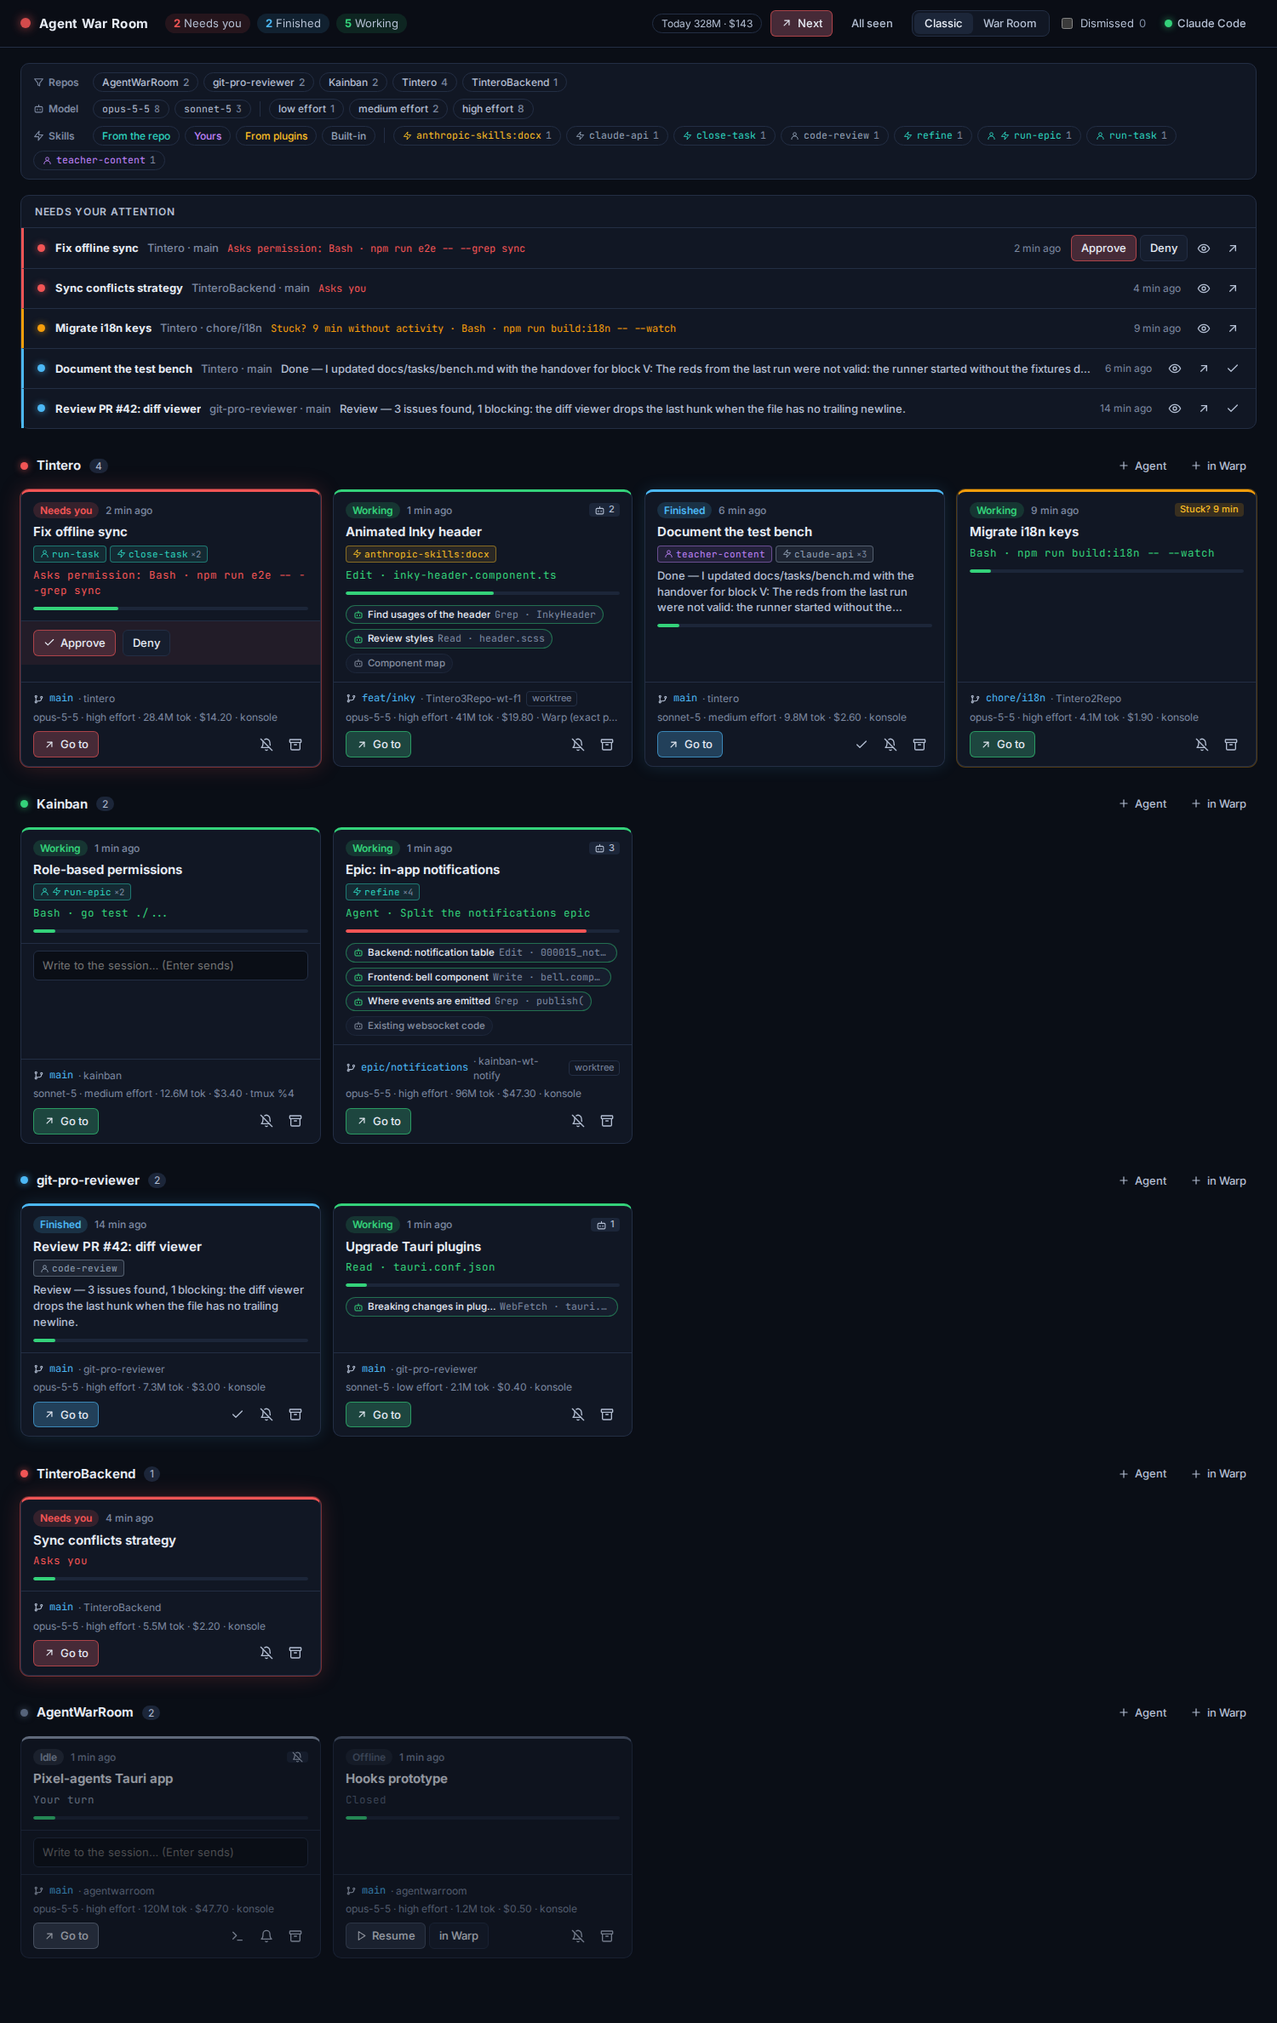
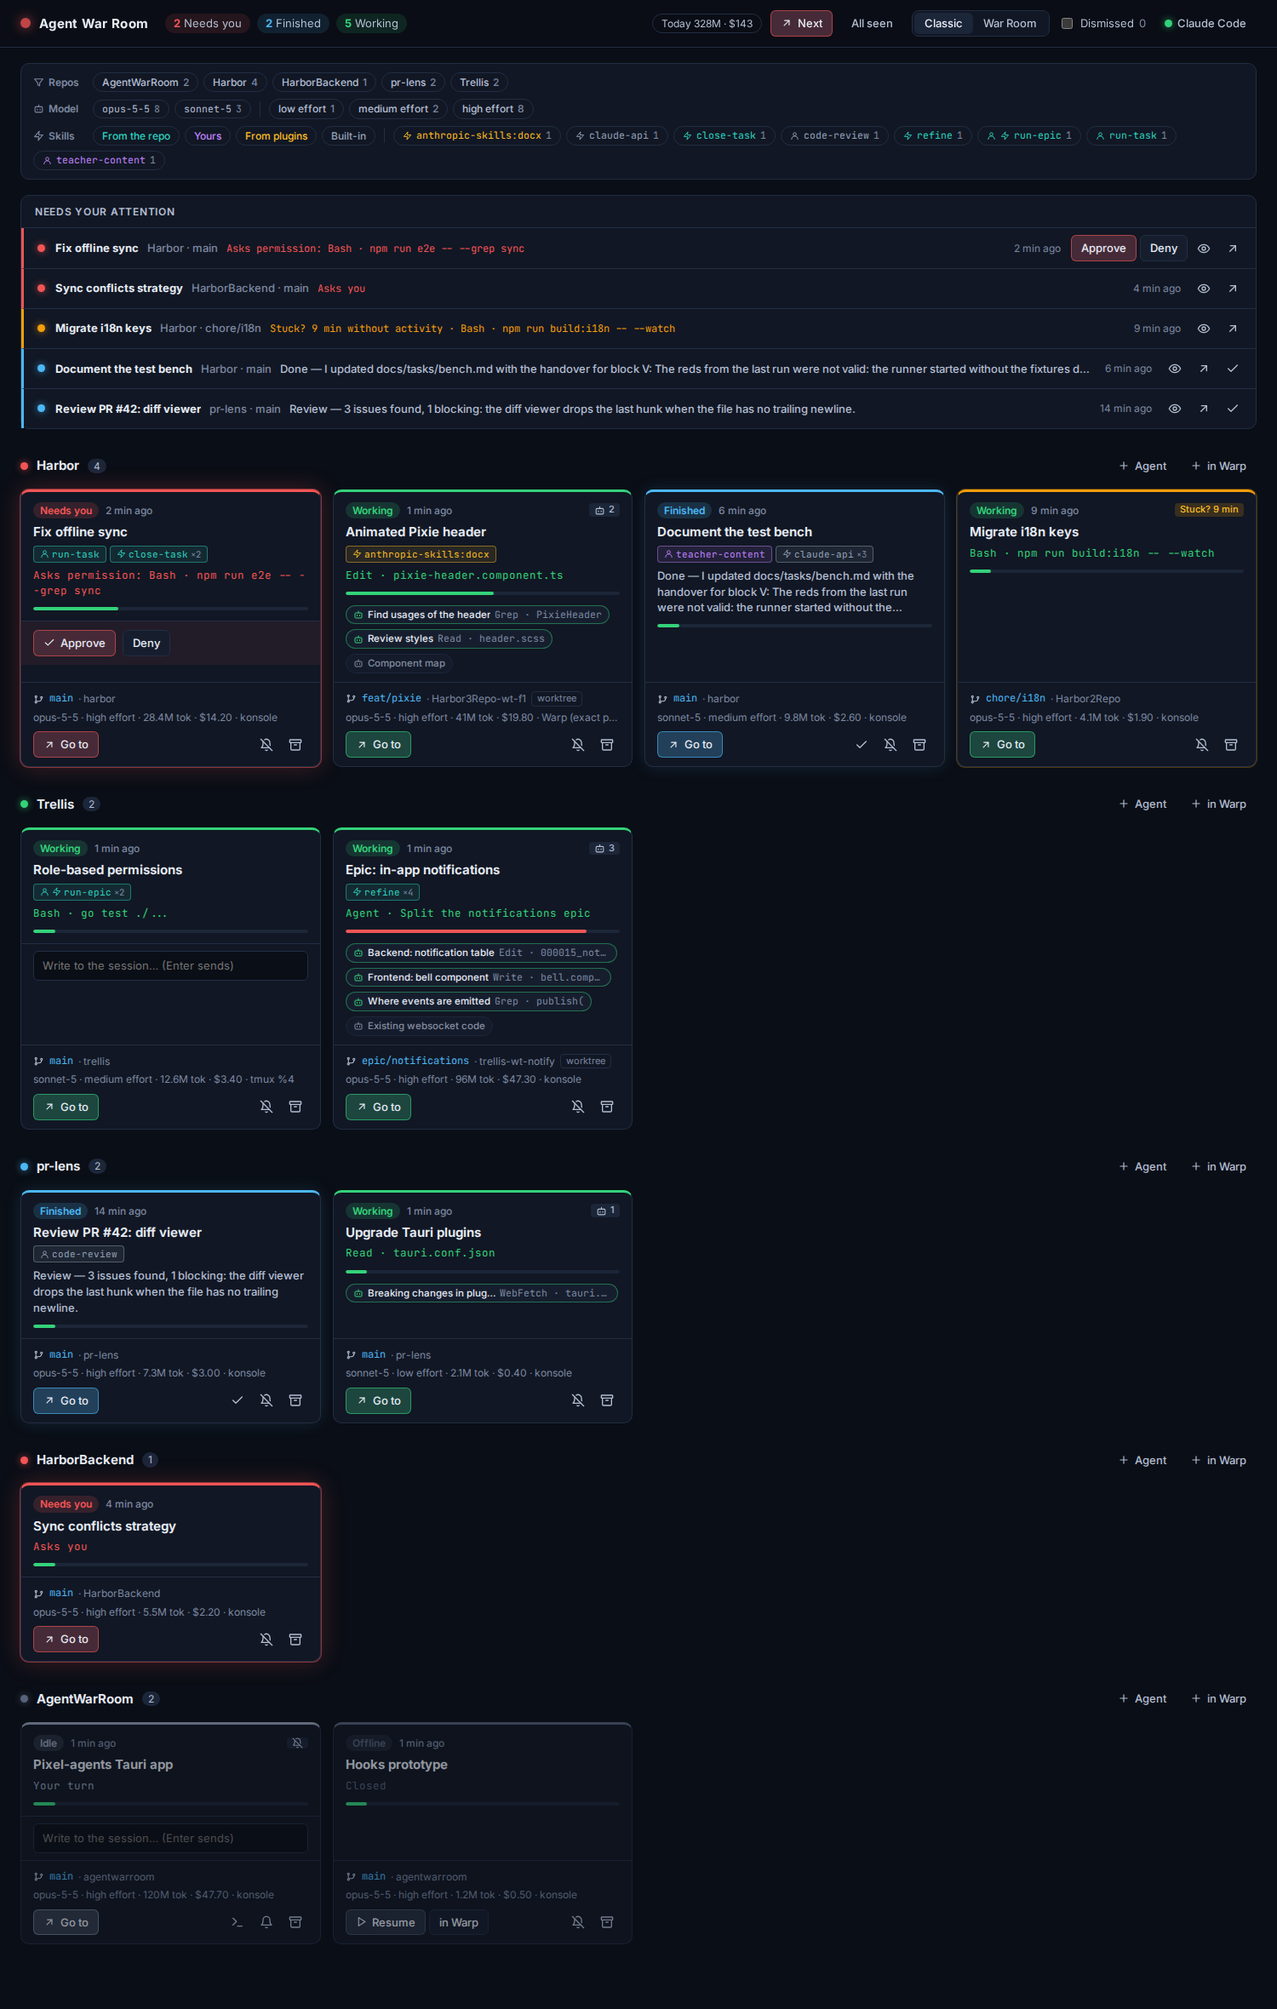
chore: MIT license and fictional names in the demo
- LICENSE (MIT); Cargo workspace and package.json declare it.
- Demo room, tests and docs use fictional repo names instead of private projects.
- Screenshots regenerated.

diff --git a/src/infrastructure/demoGateway.ts b/src/infrastructure/demoGateway.ts
@@ -133,19 +133,19 @@ function agent(id: string, kind: string, description: string, tool: string | nul
 function initialRooms(): RoomView[] {
   return [
     {
-      repo_id: "/code/tintero/.git",
-      repo_name: "Tintero",
+      repo_id: "/code/harbor/.git",
+      repo_name: "Harbor",
       attention: "needs_you",
       sessions: [
         session({
-          id: "a1b2c3d4-tintero-sync",
+          id: "a1b2c3d4-harbor-sync",
           attention: "needs_you",
           status_label: `${STATUS.asksPermission}: Bash · npm run e2e -- --grep sync`,
           title: "Fix offline sync",
           first_prompt:
             "Changes made offline are lost when the network comes back. Reproduce it with an e2e test and fix it without touching the database schema.",
           command: "claude --permission-mode default",
-          worktree_path: "/code/tintero",
+          worktree_path: "/code/harbor",
           can_approve: true,
           status_since: minutes(2),
           context_tokens: 312_000,
@@ -156,26 +156,26 @@ function initialRooms(): RoomView[] {
           ],
         }),
         session({
-          id: "b2c3d4e5-tintero-inky",
+          id: "b2c3d4e5-harbor-pixie",
           attention: "working",
           status_label: STATUS.thinking,
-          last_action: "Edit · inky-header.component.ts",
-          title: "Animated Inky header",
+          last_action: "Edit · pixie-header.component.ts",
+          title: "Animated Pixie header",
           skills: [{ name: "anthropic-skills:docx", source: "plugin", by_user: false, by_agent: true, count: 1, last_at: minutes(10) }],
-          worktree_path: "/code/Tintero3Repo-wt-f1",
-          branch: "feat/inky",
+          worktree_path: "/code/Harbor3Repo-wt-f1",
+          branch: "feat/pixie",
           is_linked_worktree: true,
           in_warp: true,
           context_tokens: 540_000,
           usage: usage(41_000_000, 19.8),
           subagents: [
-            agent("x1", "Explore", "Find usages of the header", "Grep · InkyHeader"),
+            agent("x1", "Explore", "Find usages of the header", "Grep · PixieHeader"),
             agent("x2", "general-purpose", "Review styles", "Read · header.scss", "claude-opus-5-5"),
             agent("x3", "Explore", "Component map", null, "claude-haiku-4-5", false),
           ],
         }),
         session({
-          id: "c3d4e5f6-tintero-docs",
+          id: "c3d4e5f6-harbor-docs",
           attention: "finished",
           status_label: STATUS.finished,
           title: "Document the test bench",
@@ -186,19 +186,19 @@ function initialRooms(): RoomView[] {
           first_prompt: "Document in docs/tasks how to rerun block V of the test bench.",
           command: "claude --resume c3d4e5f6",
           last_reply: DEMO_REPLY,
-          worktree_path: "/code/tintero",
+          worktree_path: "/code/harbor",
           status_since: minutes(6),
           model: "claude-sonnet-5",
           effort: "medium",
           usage: usage(9_800_000, 2.6),
         }),
         session({
-          id: "a9b8c7d6-tintero-i18n",
+          id: "a9b8c7d6-harbor-i18n",
           attention: "working",
           status_label: "Bash",
           last_action: "Bash · npm run build:i18n -- --watch",
           title: "Migrate i18n keys",
-          worktree_path: "/code/Tintero2Repo",
+          worktree_path: "/code/Harbor2Repo",
           branch: "chore/i18n",
           stalled_since: minutes(9),
           last_activity_at: minutes(9),
@@ -208,12 +208,12 @@ function initialRooms(): RoomView[] {
       ],
     },
     {
-      repo_id: "/code/kainban/.git",
-      repo_name: "Kainban",
+      repo_id: "/code/trellis/.git",
+      repo_name: "Trellis",
       attention: "working",
       sessions: [
         session({
-          id: "d4e5f6a7-kainban-roles",
+          id: "d4e5f6a7-trellis-roles",
           attention: "working",
           status_label: "Bash",
           last_action: "Bash · go test ./...",
@@ -221,17 +221,17 @@ function initialRooms(): RoomView[] {
           model: "claude-sonnet-5",
           effort: "medium",
           skills: [{ name: "run-epic", source: "project", by_user: true, by_agent: true, count: 2, last_at: minutes(2) }],
-          worktree_path: "/code/kainban",
+          worktree_path: "/code/trellis",
           tmux_pane: "%4",
           usage: usage(12_600_000, 3.4),
         }),
         session({
-          id: "k2k2k2k2-kainban-notify",
+          id: "k2k2k2k2-trellis-notify",
           attention: "working",
           status_label: STATUS.thinking,
           last_action: "Agent · Split the notifications epic",
           title: "Epic: in-app notifications",
-          worktree_path: "/code/kainban-wt-notify",
+          worktree_path: "/code/trellis-wt-notify",
           branch: "epic/notifications",
           is_linked_worktree: true,
           context_tokens: 880_000,
@@ -247,8 +247,8 @@ function initialRooms(): RoomView[] {
       ],
     },
     {
-      repo_id: "/code/git-pro-reviewer/.git",
-      repo_name: "git-pro-reviewer",
+      repo_id: "/code/pr-lens/.git",
+      repo_name: "pr-lens",
       attention: "finished",
       sessions: [
         session({
@@ -257,7 +257,7 @@ function initialRooms(): RoomView[] {
           status_label: STATUS.finished,
           title: "Review PR #42: diff viewer",
           last_reply: "## Review\n\n3 issues found, 1 blocking: the diff viewer drops the last hunk when the file has no trailing newline.",
-          worktree_path: "/code/git-pro-reviewer",
+          worktree_path: "/code/pr-lens",
           status_since: minutes(14),
           usage: usage(7_300_000, 3.0),
           skills: [{ name: "code-review", source: "builtin", by_user: true, by_agent: false, count: 1, last_at: minutes(25) }],
@@ -268,7 +268,7 @@ function initialRooms(): RoomView[] {
           status_label: STATUS.thinking,
           last_action: "Read · tauri.conf.json",
           title: "Upgrade Tauri plugins",
-          worktree_path: "/code/git-pro-reviewer",
+          worktree_path: "/code/pr-lens",
           model: "claude-sonnet-5",
           effort: "low",
           usage: usage(2_100_000, 0.4),
@@ -277,8 +277,8 @@ function initialRooms(): RoomView[] {
       ],
     },
     {
-      repo_id: "/code/TinteroBackend/.git",
-      repo_name: "TinteroBackend",
+      repo_id: "/code/HarborBackend/.git",
+      repo_name: "HarborBackend",
       attention: "needs_you",
       sessions: [
         session({
@@ -287,7 +287,7 @@ function initialRooms(): RoomView[] {
           status_label: STATUS.asksQuestion,
           title: "Sync conflicts strategy",
           last_action: "AskUserQuestion",
-          worktree_path: "/code/TinteroBackend",
+          worktree_path: "/code/HarborBackend",
           status_since: minutes(4),
           usage: usage(5_500_000, 2.2),
         }),
@@ -323,7 +323,7 @@ function initialRooms(): RoomView[] {
 }
 
 const DEMO_DIFF = `commit 3f9c2ab71e0d4c55a2e1b9f0c7d6e5a4b3c2d1e0
-Author:     Francisco <f@example.com>
+Author:     Alex <f@example.com>
 Date:       Sun Sep 28 01:12:00 2026 +0200
 
     fix(sync): keep offline edits when the socket reconnects
@@ -375,10 +375,10 @@ export function createDemo(): { rooms: WarRoomGateway; integration: IntegrationG
   };
   const find = (id: string) => rooms.flatMap((r) => r.sessions).find((s) => s.id === id);
 
-  // The Kainban agent finishes after 12 s, so transitions show up without touching anything.
+  // The Trellis agent finishes after 12 s, so transitions show up without touching anything.
   setTimeout(
     () =>
-      update("d4e5f6a7-kainban-roles", {
+      update("d4e5f6a7-trellis-roles", {
         attention: "finished",
         status_label: STATUS.finished,
         status_since: Date.now(),
@@ -436,10 +436,10 @@ export function createDemo(): { rooms: WarRoomGateway; integration: IntegrationG
           session_id: id,
           agent: a,
           first_prompt: `${a.description ?? "Task"}: find every usage and summarise where to change it.`,
-          last_reply: a.running ? null : "Found **12 components**:\n\n- `InkyHeader` in 4 pages\n- `ThemeToggle` in 2",
+          last_reply: a.running ? null : "Found **12 components**:\n\n- `PixieHeader` in 4 pages\n- `ThemeToggle` in 2",
           timeline: [
             { kind: "prompt", text: `${a.description ?? "Task"}: find every usage and summarise where to change it.`, at: minutes(3), model: null, effort: null },
-            { kind: "tool", text: "Grep · InkyHeader", at: minutes(3), model: a.model, effort: a.effort },
+            { kind: "tool", text: "Grep · PixieHeader", at: minutes(3), model: a.model, effort: a.effort },
             { kind: "tool", text: "Read · app.component.html", at: minutes(2), model: a.model, effort: a.effort },
             ...(a.running ? [] : [{ kind: "reply" as const, text: "Found **12 components**.", at: minutes(1), model: a.model, effort: a.effort }]),
           ],
@@ -463,8 +463,8 @@ export function createDemo(): { rooms: WarRoomGateway; integration: IntegrationG
           { path: "docs/tasks/sync.md", edits: 1, written: false },
         ],
         commits: [
-          { hash: "3f9c2ab71e0d4c55", short: "3f9c2ab7", subject: "fix(sync): keep offline edits when the socket reconnects", author: "Francisco", at: minutes(3), files_changed: 2, insertions: 43, deletions: 6 },
-          { hash: "8d1e0f9a2b3c4d5e", short: "8d1e0f9a", subject: "test(sync): reproduce lost offline edits", author: "Francisco", at: minutes(25), files_changed: 1, insertions: 31, deletions: 0 },
+          { hash: "3f9c2ab71e0d4c55", short: "3f9c2ab7", subject: "fix(sync): keep offline edits when the socket reconnects", author: "Alex", at: minutes(3), files_changed: 2, insertions: 43, deletions: 6 },
+          { hash: "8d1e0f9a2b3c4d5e", short: "8d1e0f9a", subject: "test(sync): reproduce lost offline edits", author: "Alex", at: minutes(25), files_changed: 1, insertions: 31, deletions: 0 },
         ],
       }),
       commitDiff: async () => DEMO_DIFF,

diff --git a/src/application/warRoomStore.test.ts b/src/application/warRoomStore.test.ts
@@ -34,23 +34,23 @@ describe("WarRoomStore", () => {
   it("navigates from a session to its subagent and back", async () => {
     const store = storeWith();
     await store.start();
-    store.openSubagent("b2c3d4e5-tintero-inky", "x1");
+    store.openSubagent("b2c3d4e5-harbor-pixie", "x1");
     await vi.waitFor(() => expect(store.snapshot().detail?.agent?.data?.first_prompt).toContain("Find usages"));
-    expect(store.snapshot().detail?.data?.session.id).toBe("b2c3d4e5-tintero-inky");
+    expect(store.snapshot().detail?.data?.session.id).toBe("b2c3d4e5-harbor-pixie");
     store.backToSession();
     expect(store.snapshot().detail?.agent).toBeNull();
-    expect(store.snapshot().detail?.id).toBe("b2c3d4e5-tintero-inky");
+    expect(store.snapshot().detail?.id).toBe("b2c3d4e5-harbor-pixie");
   });
 
   it("remembers the filter across launches", () => {
-    let saved: Filter | null = { ...NO_FILTER, repos: ["/code/kainban/.git"] };
+    let saved: Filter | null = { ...NO_FILTER, repos: ["/code/trellis/.git"] };
     const storage = { load: () => saved, save: (f: Filter) => void (saved = f) };
     const demo = createDemo();
     const store = new WarRoomStore(demo.rooms, demo.integration, demo.terminals, storage);
-    expect(store.snapshot().filter.repos).toEqual(["/code/kainban/.git"]);
+    expect(store.snapshot().filter.repos).toEqual(["/code/trellis/.git"]);
 
     store.toggleSkillFilter("close-task");
-    store.toggleRepoFilter("/code/kainban/.git");
+    store.toggleRepoFilter("/code/trellis/.git");
     expect(saved).toEqual({ ...NO_FILTER, skills: ["close-task"] });
     store.clearFilter();
     expect(saved).toEqual(NO_FILTER);
@@ -65,7 +65,7 @@ describe("WarRoomStore", () => {
   it("loads changes on demand and opens a commit diff over the preview", async () => {
     const store = storeWith();
     await store.start();
-    store.openDetail("a1b2c3d4-tintero-sync");
+    store.openDetail("a1b2c3d4-harbor-sync");
     expect(store.snapshot().detail?.changes).toBeNull();
     store.loadChanges();
     await vi.waitFor(() => expect(store.snapshot().detail?.changes?.data?.commits.length).toBeGreaterThan(0));

diff --git a/src/domain/filter.test.ts b/src/domain/filter.test.ts
@@ -12,11 +12,11 @@ const skill = (name: string, source: "project" | "personal" | "plugin" | "builti
 });
 
 const view = aView([
-  aRoom("tintero", [
+  aRoom("harbor", [
     aSession({ id: "t1", skills: [skill("close-task", "project", "agent")] }),
     aSession({ id: "t2", skills: [skill("claude-api", "builtin", "user")] }),
   ]),
-  aRoom("kainban", [aSession({ id: "k1" })]),
+  aRoom("trellis", [aSession({ id: "k1" })]),
 ]);
 
 describe("filters", () => {
@@ -26,8 +26,8 @@ describe("filters", () => {
   });
 
   it("filters by repo", () => {
-    const out = applyFilter(view, { ...NO_FILTER, repos: ["/code/kainban/.git"] });
-    expect(out.rooms.map((r) => r.repo_name)).toEqual(["kainban"]);
+    const out = applyFilter(view, { ...NO_FILTER, repos: ["/code/trellis/.git"] });
+    expect(out.rooms.map((r) => r.repo_name)).toEqual(["trellis"]);
   });
 
   it("filters by skill and drops rooms left empty", () => {
@@ -42,7 +42,7 @@ describe("filters", () => {
 
   it("offers the repos and skills present, with who launched them", () => {
     const { repos, skills } = filterOptions(view);
-    expect(repos.map((r) => r.name)).toEqual(["kainban", "tintero"]);
+    expect(repos.map((r) => r.name)).toEqual(["harbor", "trellis"]);
     expect(skills.map((s) => [s.name, s.byUser, s.byAgent])).toEqual([
       ["claude-api", true, false],
       ["close-task", false, true],

diff --git a/crates/infrastructure/src/desktop/kwin.rs b/crates/infrastructure/src/desktop/kwin.rs
@@ -79,7 +79,7 @@ fn script(pids: &[u32], hints: &[String]) -> String {
         const rank = pids.indexOf(w.pid);
         if (rank < 0) continue;
         const caption = String(w.caption || "").toLowerCase();
-        // "Tintero" must not win on "Tintero3Repo": a whole-word match weighs ten times more.
+        // "Harbor" must not win on "Harbor3Repo": a whole-word match weighs ten times more.
         let bonus = 0;
         for (let i = 0; i < hints.length; i++) {{
             const weight = (hints.length - i) * 1000;
@@ -116,9 +116,9 @@ mod tests {
 
     #[test]
     fn script_embeds_pids_and_lowercased_hints_as_json() {
-        let s = script(&[10, 20], &["Tintero3Repo-wt-f1".into(), "".into(), "It's \"quoted\"".into()]);
+        let s = script(&[10, 20], &["Harbor3Repo-wt-f1".into(), "".into(), "It's \"quoted\"".into()]);
         assert!(s.contains("const pids = [10,20];"));
-        assert!(s.contains(r#"const hints = ["tintero3repo-wt-f1","it's \"quoted\""];"#));
+        assert!(s.contains(r#"const hints = ["harbor3repo-wt-f1","it's \"quoted\""];"#));
     }
 
     /// Runs the real script against a fake `workspace` with the captions of an IDE that has several
@@ -126,7 +126,7 @@ mod tests {
     #[test]
     fn picks_the_window_whose_caption_names_the_worktree() {
         const HARNESS: &str = r#"
-            const captions = ["TinteroBackend – Makefile", "Tintero3Repo – Commit: x.ts", "Tintero2Repo – .env", "Tintero – Commit: y.ts"];
+            const captions = ["HarborBackend – Makefile", "Harbor3Repo – Commit: x.ts", "Harbor2Repo – .env", "Harbor – Commit: y.ts"];
             let active = null;
             globalThis.workspace = { windowList: () => captions.map(caption => ({ pid: 5638, caption, normalWindow: true, desktops: [] })) };
             Object.defineProperty(workspace, "activeWindow", { set(w) { active = w; }, get() { return active; }, enumerable: true });
@@ -145,10 +145,10 @@ mod tests {
             child.stdin.take()?.write_all(script(&[5638], &hints).as_bytes()).ok()?;
             String::from_utf8(child.wait_with_output().ok()?.stdout).ok()
         };
-        let Some(tintero) = pick(&["Tintero", "Tintero"]) else { return };
-        assert_eq!(tintero, "Tintero – Commit: y.ts");
-        assert_eq!(pick(&["Tintero3Repo-wt-f1", "Tintero3Repo"]).unwrap(), "Tintero3Repo – Commit: x.ts");
-        assert_eq!(pick(&["Some title", "Tintero2Repo"]).unwrap(), "Tintero2Repo – .env");
+        let Some(harbor) = pick(&["Harbor", "Harbor"]) else { return };
+        assert_eq!(harbor, "Harbor – Commit: y.ts");
+        assert_eq!(pick(&["Harbor3Repo-wt-f1", "Harbor3Repo"]).unwrap(), "Harbor3Repo – Commit: x.ts");
+        assert_eq!(pick(&["Some title", "Harbor2Repo"]).unwrap(), "Harbor2Repo – .env");
     }
 }
 

diff --git a/crates/infrastructure/src/git.rs b/crates/infrastructure/src/git.rs
@@ -66,7 +66,7 @@ fn git(cwd: &str, args: &[&str]) -> Option<String> {
     Some(text.trim_end().to_owned()).filter(|t| !t.is_empty())
 }
 
-/// `/code/Tintero3Repo/.git` → `Tintero3Repo`, also from any of its worktrees.
+/// `/code/Harbor3Repo/.git` → `Harbor3Repo`, also from any of its worktrees.
 fn repo_name(common_dir: &str, toplevel: &str) -> String {
     let common = Path::new(common_dir);
     let named = if common.file_name().is_some_and(|n| n == ".git") { common.parent() } else { Some(common) };

diff --git a/docs/adr/0001-architecture.md b/docs/adr/0001-architecture.md
@@ -69,7 +69,7 @@ Priority: jump to the right window or pane.
 - **tmux:** selects the pane and focuses its client's terminal.
 - **KDE Plasma (X11 and Wayland):** a KWin script loaded over DBus looks for the window whose PID is in
   the agent's process chain. If several windows share the process, the title breaks the tie, weighting
-  whole-word matches higher (`Tintero` does not win on `Tintero3Repo`).
+  whole-word matches higher (`Harbor` does not win on `Harbor3Repo`).
 
 Writing into a session is only possible if it runs in an app terminal (PTY linked through
 `AWR_PTY_ID`) or in tmux.

diff --git a/.cursor/rules/desktop-kwin.md b/.cursor/rules/desktop-kwin.md
@@ -17,7 +17,7 @@ client's). One process often owns several windows (WebStorm had 5 projects open 
 Konsole too), so the caption decides:
 
 - hints in priority order: session title, worktree folder, repo name (lower-cased);
-- a **whole-word** match weighs 10× a substring match — otherwise `Tintero` wins inside `Tintero3Repo`;
+- a **whole-word** match weighs 10× a substring match — otherwise `Harbor` wins inside `Harbor3Repo`;
 - closer ancestors win ties; minimized windows are restored; the desktop is switched if needed.
 
 ## Verifying

diff --git a/README.md b/README.md
@@ -313,4 +313,4 @@ Issues and pull requests are welcome.
 
 ## License
 
-See [LICENSE](LICENSE).
+MIT — see [LICENSE](LICENSE).
